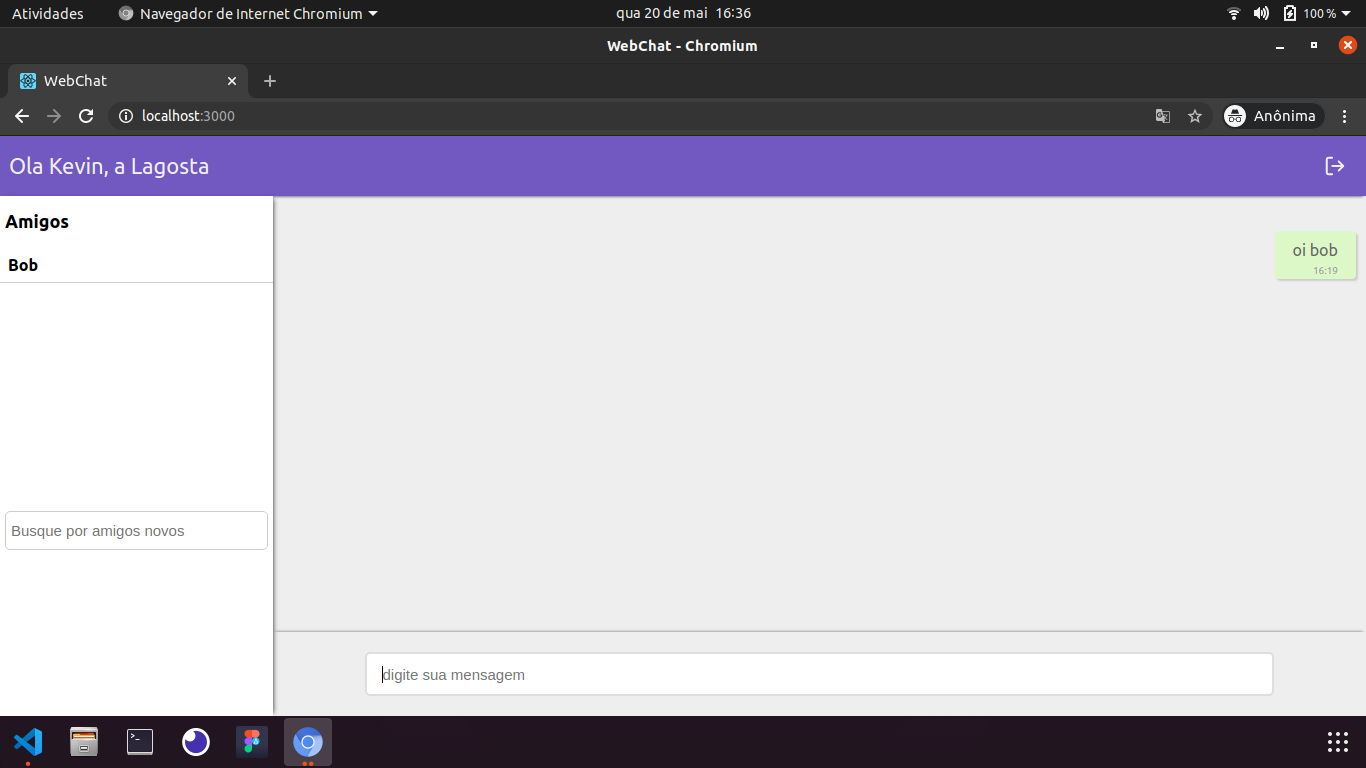
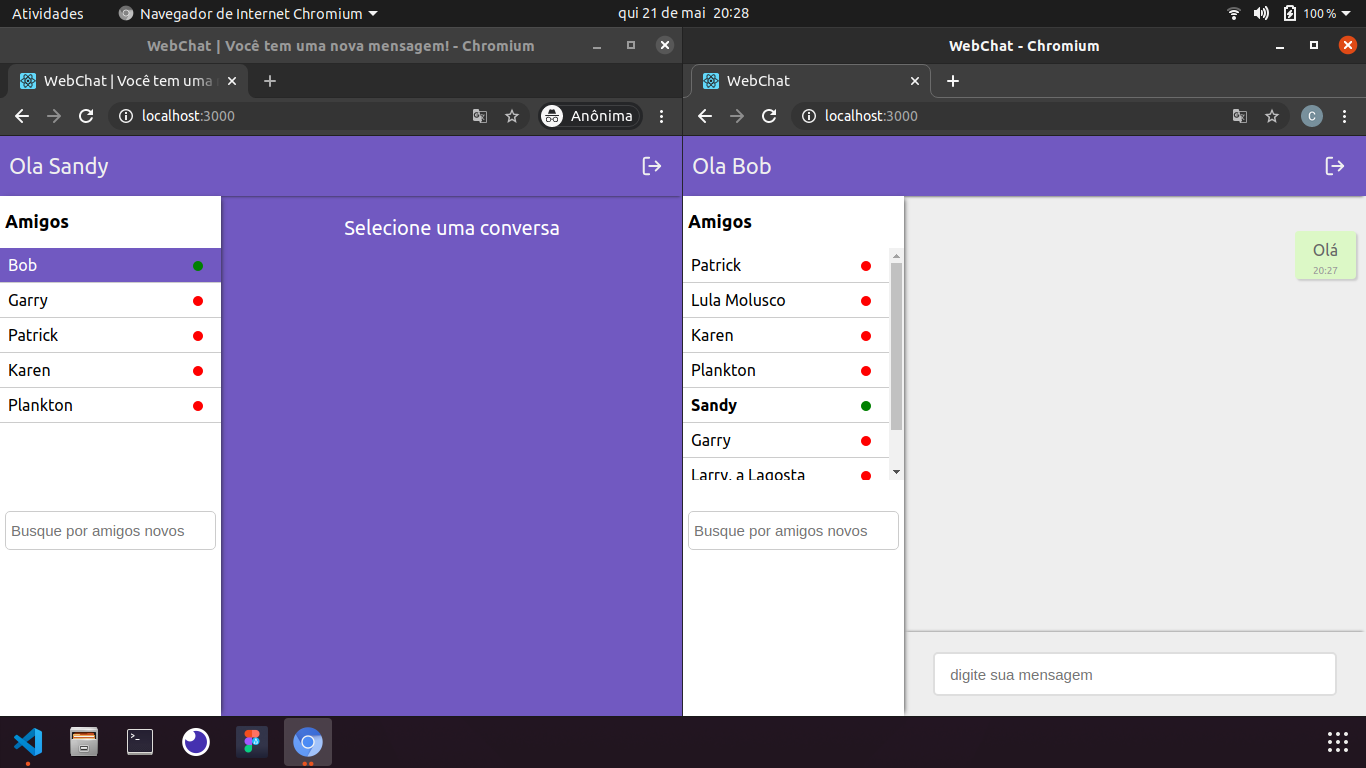
change prints; Show online friends

diff --git a/server/src/index.js b/server/src/index.js
@@ -32,10 +32,7 @@ io.on('connection', s => {
         s.join(client.room);
         online.push(client);
         s.emit('create.room', client.id);
-        // io.emit('chat.online', 'oi');
         UserController.onlineFriend({_id: idUser}).then(r => {
-            // console.log(r);
-            // io.emit('chat.online', 'oi');
             r.forEach( f => {
                 online.forEach(o => {
                     if(o.room === f.id){
@@ -43,7 +40,6 @@ io.on('connection', s => {
                     }
                 });
             });
-            // console.log(online);
         })
 
     });
@@ -52,15 +48,11 @@ io.on('connection', s => {
         MessageController.chat(data).then(r => {
             MessageController.openChat({idUser: data.idUser, idFriend: data.idFriend}).then(c => {
                 s.emit("chat.message", c);
-                // console.log("idFriend=", data.idFriend);
                 online.forEach( el =>{
                     if(el.room === data.idFriend){
-                        // console.log('Seu amigo esta online');
                         s.to(el.room).emit("chat.message", c);
                     }
-                    // console.log(el);
                 });
-                // console.log('-------------');
             })
         });
     });
@@ -73,7 +65,13 @@ io.on('connection', s => {
 
     s.on('chat.friends', data => {
         UserController.onlineFriend(data).then(r => {
-            // console.log(r);
+            r.forEach(f => {
+                online.forEach(el => {
+                    if(el.room === f.id){
+                        f.online = true;
+                    }
+                });
+            });
             s.emit('chat.friends', r);
         })
     });
@@ -84,14 +82,31 @@ io.on('connection', s => {
     
     s.on('disconnect', () => {
         let offline = undefined;
+        let offlineId = undefined;
         for(i in online){
             const el = online[i];
             if(el.id === s.client.id){
                 offline = i;
+                offlineId = el.room;
                 break;
             }
         }
-        if(offline) online.splice(offline, 1);
+
+        if(offline){
+            online.splice(offline, 1);
+            
+            UserController.onlineFriend({_id: offlineId}).then(r => {
+                r.forEach(f => {
+                    online.forEach(el => {
+                        if(el.room === f.id){
+                            console.log('tenho amigos online');
+                            s.to(el.room).emit("chat.offline", {idUser: offlineId} );
+                        }
+                    });
+                });
+            });
+        
+        }
     });
 });
 

diff --git a/client/src/components/Side/index.js b/client/src/components/Side/index.js
@@ -17,22 +17,31 @@ function Side(props) {
 	useEffect(() => {
         socketUsers.emit('chat.friends', {_id: idUser});
         socketUsers.on('chat.friends', data => {
+            console.log(data);
             setFriends(data);
         });
     }, [idUser, update]);
 
     useEffect( () => {
         socketUsers.on('chat.update', data => {
-            // socketUsers.emit('chat');
             setUpdate(new Date());
         });
 
         socketMessages.on('chat.online', data => {
-            swal.fire({
-                title: data.nameUser + " acabou de ficar online",
-                icon: 'info'
-            });
+            const li = document.getElementById(data.idUser);
+            const [t1, t2, div, t3] = li.childNodes
+            div.classList.add('online');
+            div.classList.remove('offline');
         });
+
+        socketMessages.on('chat.offline', data => {
+            const li = document.getElementById(data.idUser);
+            const [t1, t2, div, t3] = li.childNodes
+            div.classList.add('offline');
+            div.classList.remove('online');
+
+        });
+
     }, [socketUsers]);
 
 	function setFriendHandler(e, idFriend){
@@ -56,7 +65,7 @@ function Side(props) {
             <ul>
                 {
                     friends.map(f => {
-                        return <li key={f.id} id={f.id} className={(f.new) ? "newMessage" : ""} onClick={(e) => setFriendHandler(e, f.id)} >{f.name}</li>
+                        return <li key={f.id} id={f.id} className={(f.new) ? "newMessage" : ""} onClick={(e) => setFriendHandler(e, f.id)} >{f.name} <div className={(f.online ? 'online' : 'offline')}></div> </li>
                     })
                 }
             </ul>

diff --git a/client/src/components/Side/Side.css b/client/src/components/Side/Side.css
@@ -37,6 +37,8 @@ aside > ul > li{
 	border-bottom: solid 1px #ccc;
 	padding: 8px;
 	cursor: pointer;
+	display: flex;
+	justify-content: space-between;
 }
 
 aside > ul > li:hover{
@@ -50,4 +52,20 @@ aside > ul > li.selected{
 aside > ul > li.newMessage{
 	background-color: rgb(113, 89, 193);
 	color: #fff;
+}
+
+aside > ul > li > div{
+	width: 10px;
+	height: 10px;
+	border-radius: 100%;
+	margin-right: 10px;
+	margin-top: 5px;
+}
+
+aside > ul > li > div.offline{
+	background-color: red;
+}
+
+aside > ul > li > div.online{
+	background-color: green;
 }

diff --git a/server/src/controllers/UserController.js b/server/src/controllers/UserController.js
@@ -68,7 +68,7 @@ class Controller{
 
 	async onlineFriend(obj){
 		const {_id} = obj;
-
+		if(!_id) return [];
 		let users = await User.findOne({_id}).populate('friends');
 		let friends = [];
 
